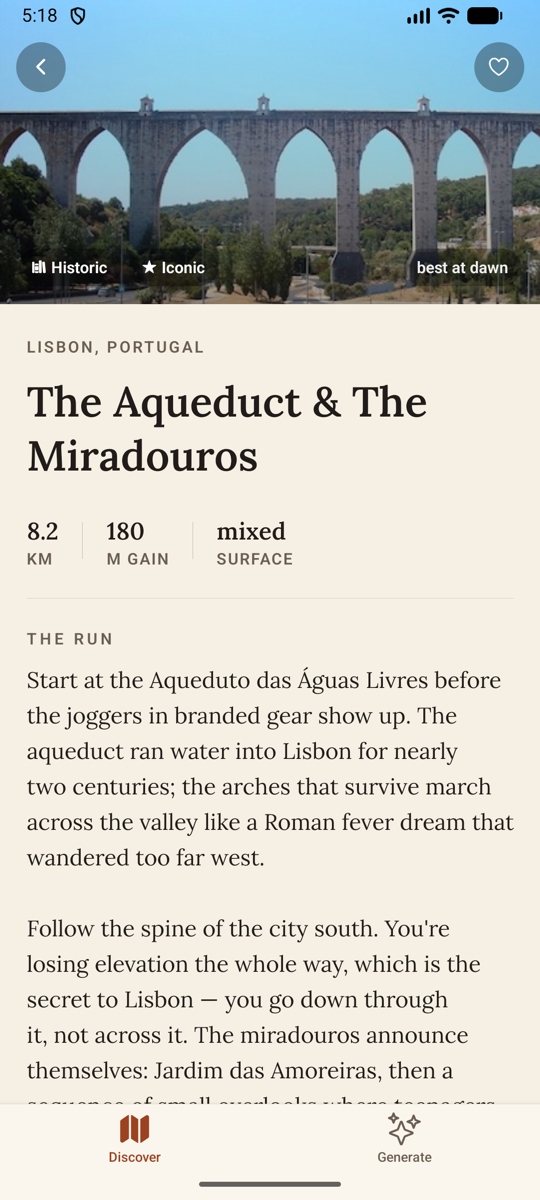
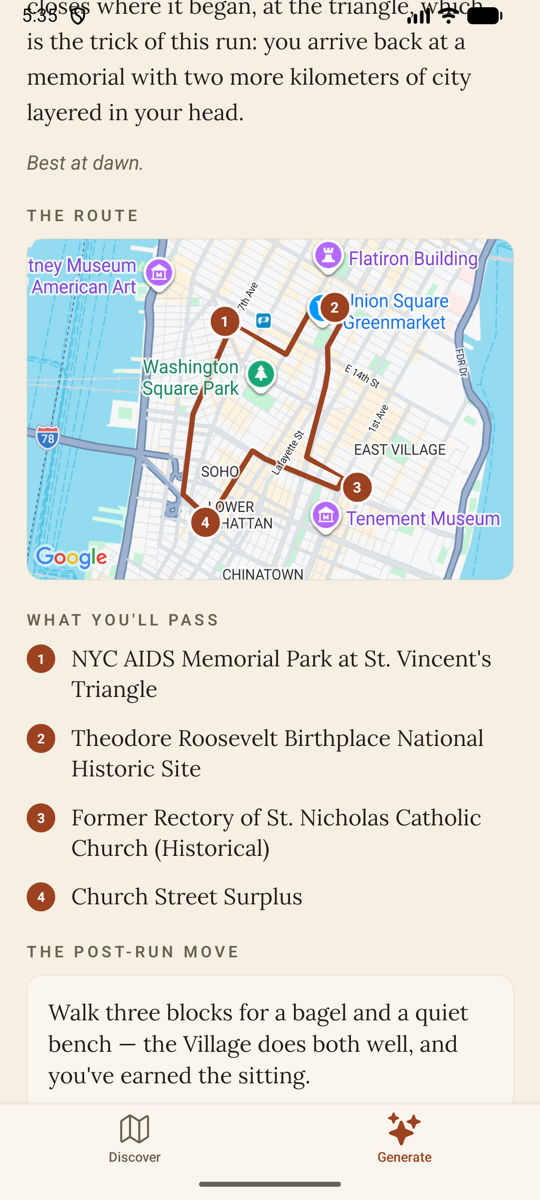
Docs: use the generated-run route view for the detail screenshot
Swaps the detail still for one showing a generated run end to end — the route map with numbered waypoints, the named stops, and the post-run move — and updates the caption to match.

diff --git a/README.md b/README.md
@@ -16,10 +16,10 @@ A cross-platform portfolio project — **one React Native codebase running nativ
   <em>Running on Android — the curated feed, a run detail, then generating a run from a pin.</em>
 </p>
 
-| Discover | Generate | A run in detail |
+| Discover | Generate | A generated run |
 |---|---|---|
-| ![Discover feed](docs/screenshots/discover.png) | ![Generate inputs](docs/screenshots/generate.png) | ![Run detail](docs/screenshots/detail.png) |
-| The curated atlas — real photos, editorial cards. | Drop a pin, pick a distance and a vibe. | Every run is a story: the hero, the facts, the writeup. |
+| ![Discover feed](docs/screenshots/discover.png) | ![Generate inputs](docs/screenshots/generate.png) | ![Generated run detail](docs/screenshots/detail.png) |
+| The curated atlas — real photos, editorial cards. | Drop a pin, pick a distance and a vibe. | The route, the real stops you'll pass, and the post-run move. |
 
 ## What it is
 
